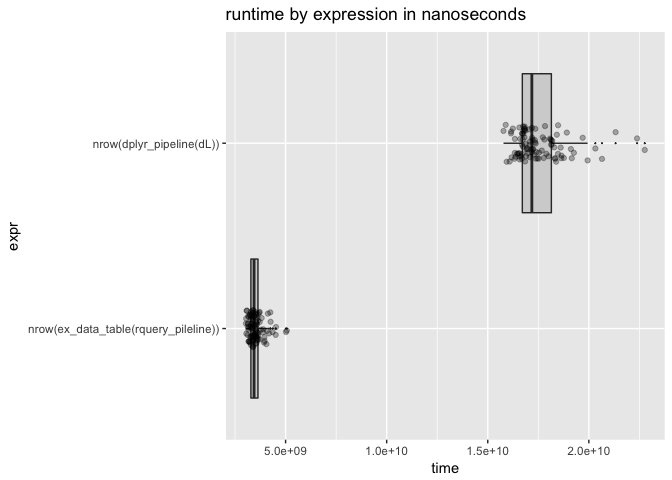
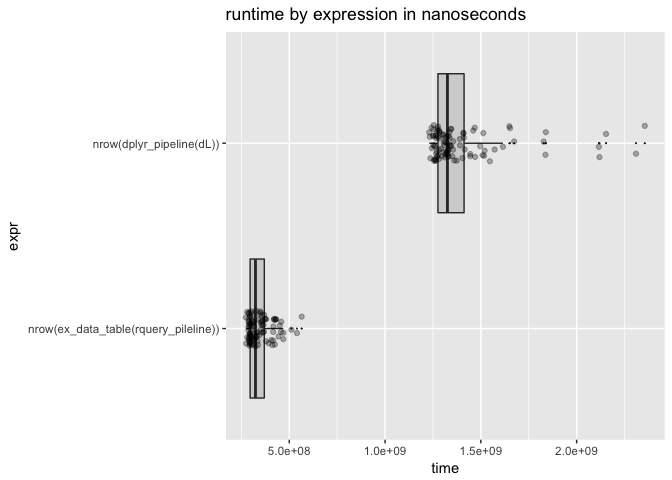
re-run

diff --git a/extras/data_table.md b/extras/data_table.md
@@ -69,6 +69,22 @@ dL <- build_frame(
 ``` r
 scale <- 0.237
 
+test_p <- local_td(dL) %.>%
+  extend_nse(.,
+             one := 1) %.>%
+  project_nse(.,
+             maxscore = max(assessmentTotal),
+             groupby = 'subjectID')
+ex_data_table(test_p) %.>%
+  knitr::kable(.)
+```
+
+|  subjectID|  maxscore|
+|----------:|---------:|
+|          1|         5|
+|          2|         4|
+
+``` r
 # example rquery pipeline
 rquery_pileline <- local_td(dL) %.>%
   extend_nse(.,
@@ -171,12 +187,29 @@ Timings.
 
 ``` r
 # fatten up data.frame a bit
-dL <- dL[rep(seq_len(nrow(dL)), 100000), , drop = FALSE]
+dL <- dL[rep(seq_len(nrow(dL)), 10000), , drop = FALSE]
 dL$subjectID <- paste(dL$subjectID, (1+seq_len(nrow(dL))) %/% 2, sep = "_")
 for(i in seq_len(10)) {
   dL[[paste0("irrelevantCol", i)]] <- runif(nrow(dL))
 }
+
+# show we are working on the new larger data
+system.time(print(nrow(ex_data_table(rquery_pileline))))
 ```
+
+    ## [1] 20000
+
+    ##    user  system elapsed 
+    ##   0.635   0.026   0.416
+
+``` r
+system.time(print(nrow(dplyr_pipeline(dL))))
+```
+
+    ## [1] 20000
+
+    ##    user  system elapsed 
+    ##   1.398   0.027   1.455
 
 ``` r
 timings <- microbenchmark(
@@ -188,28 +221,29 @@ timings <- microbenchmark(
 print(timings)
 ```
 
-    ## Unit: seconds
-    ##                                  expr       min        lq     mean
-    ##  nrow(ex_data_table(rquery_pileline))  3.037158  3.283017  3.53165
-    ##              nrow(dplyr_pipeline(dL)) 15.778748 16.707364 17.52465
-    ##     median       uq       max neval
-    ##   3.440509  3.63411  5.061729   100
-    ##  17.180783 18.14753 22.765549   100
+    ## Unit: milliseconds
+    ##                                  expr       min        lq      mean
+    ##  nrow(ex_data_table(rquery_pileline))  273.6537  295.5555  344.2774
+    ##              nrow(dplyr_pipeline(dL)) 1230.6227 1275.6322 1403.5798
+    ##     median        uq       max neval
+    ##   323.5548  370.5334  564.7431   100
+    ##  1325.5366 1413.5868 2355.5739   100
 
 ``` r
+# summarize by hand using rquery database connector
 summary_pipeline <- timings %.>%
   as.data.frame(.) %.>%
-  project_nse(., "expr", mean = avg(time)) 
+  project_nse(., groupby = "expr", mean = avg(time)) 
 timings %.>% 
   as.data.frame(.) %.>%
   summary_pipeline %.>%
   knitr::kable(.)
 ```
 
-| expr                                    |         mean|
-|:----------------------------------------|------------:|
-| nrow(dplyr\_pipeline(dL))               |  17524646610|
-| nrow(ex\_data\_table(rquery\_pileline)) |   3531650484|
+| expr                                    |        mean|
+|:----------------------------------------|-----------:|
+| nrow(dplyr\_pipeline(dL))               |  1403579784|
+| nrow(ex\_data\_table(rquery\_pileline)) |   344277450|
 
 ``` r
 autoplot(timings)
